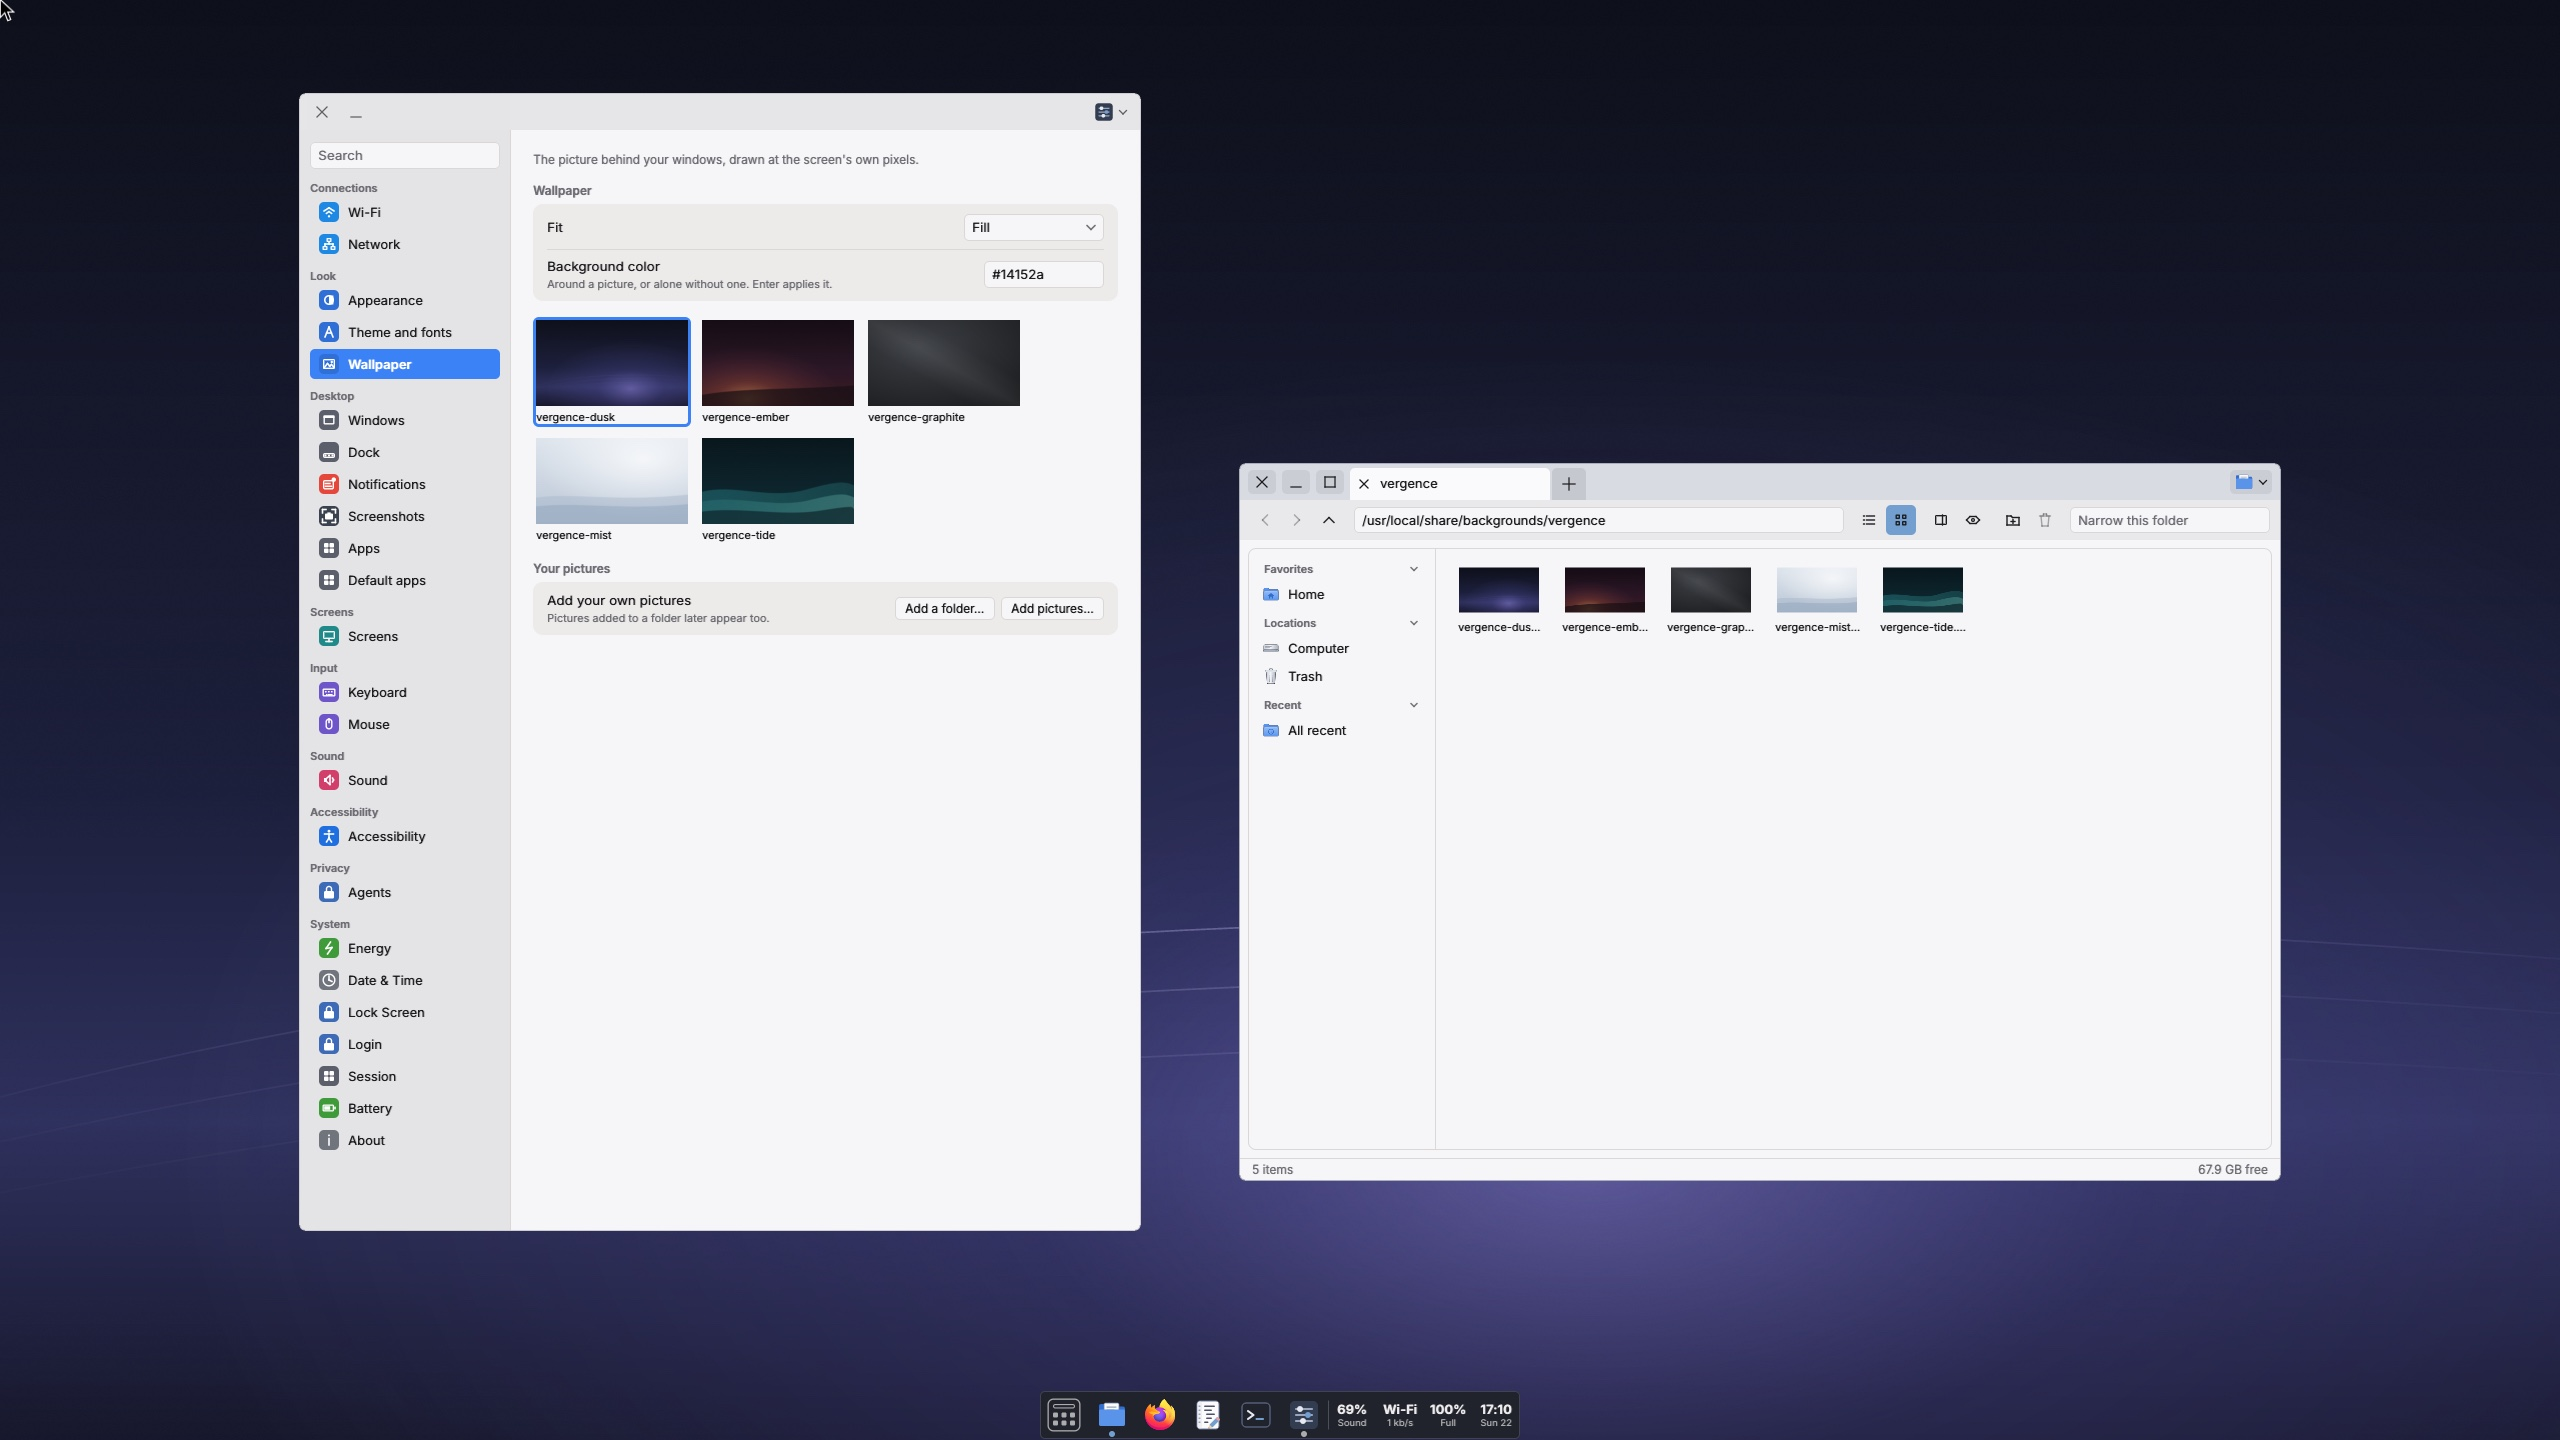
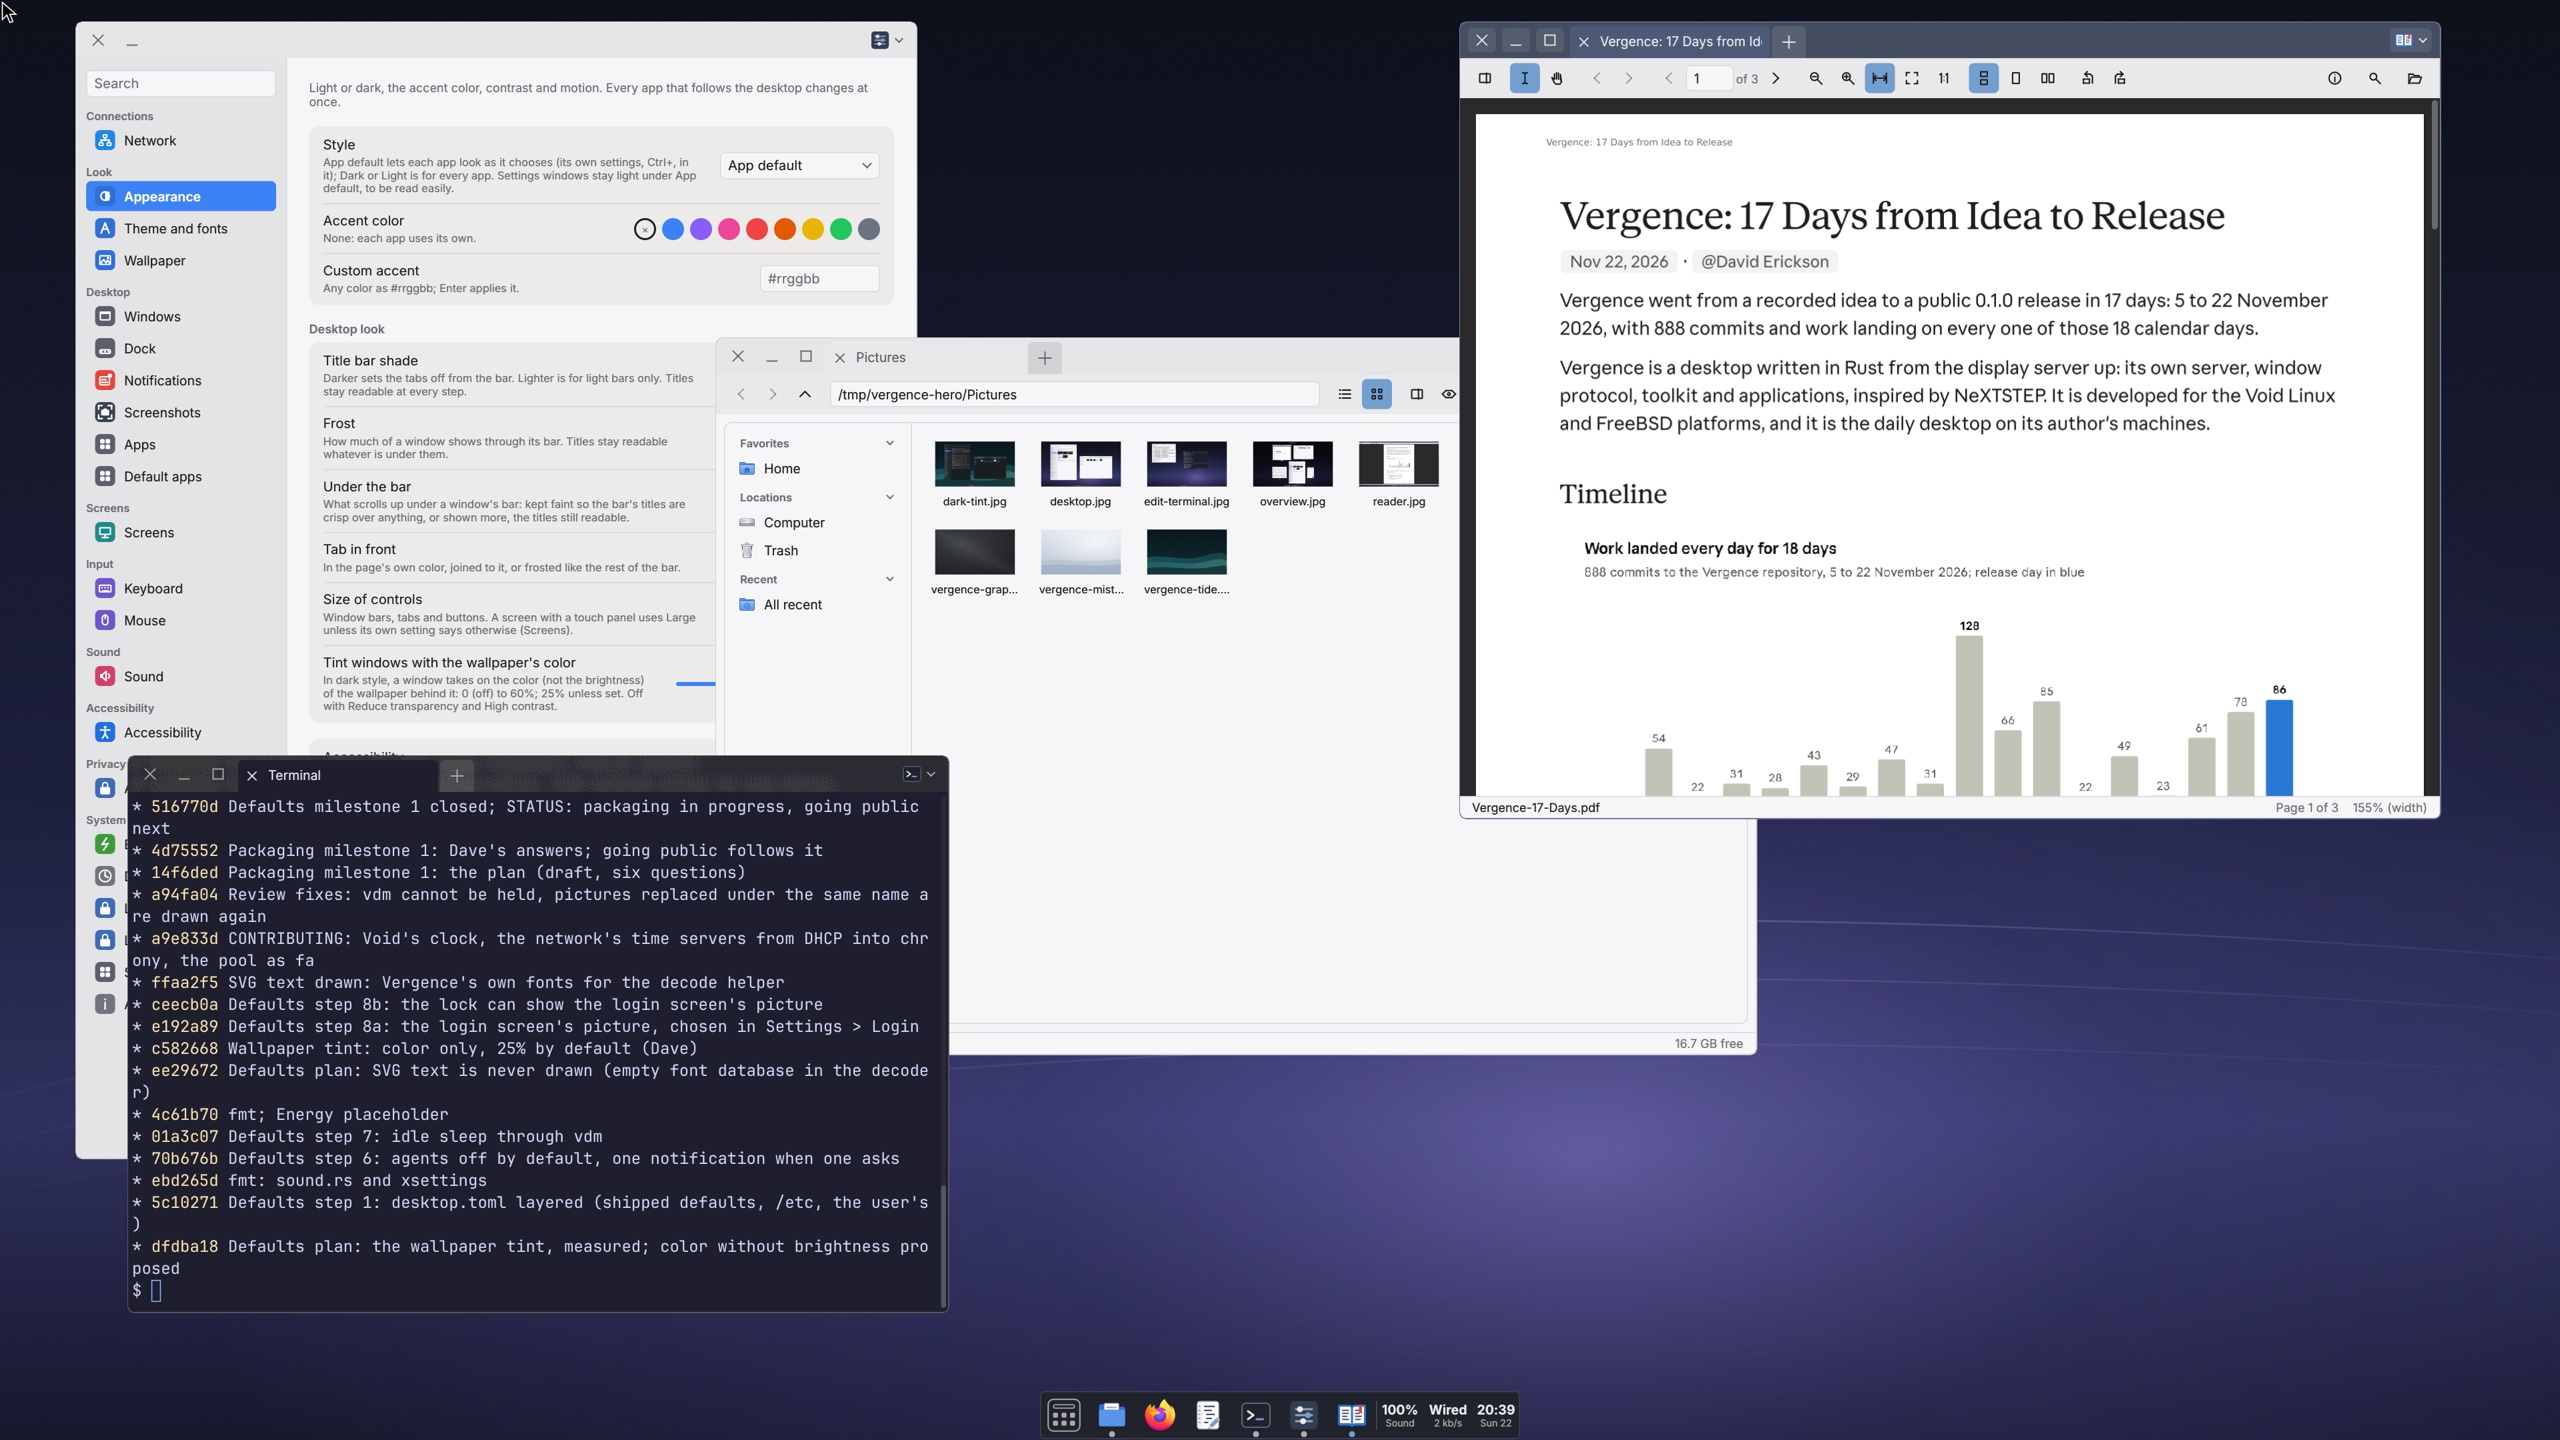
README: the top picture is Vergence out of the box (Dusk, App default, four of its own apps), from tools/lab/hero.sh (Dave's pick)

diff --git a/README.md b/README.md
@@ -1,6 +1,6 @@
 # Vergence
 
-![Vergence: Settings on the Wallpaper page and FileView on the same folder, over the Dusk wallpaper, with the dock below](docs/screenshots/desktop.jpg)
+![Vergence out of the box: the Dusk wallpaper and each app in its own style (App default): Settings on Appearance, FileView on Pictures, Terminal, and Reader on the story of the first 17 days, with the frosted dock below](docs/screenshots/desktop.jpg)
 
 Vergence is the movement of both eyes converging on one point so that you see
 one clear image. This project does the same for a desktop: every monitor and
